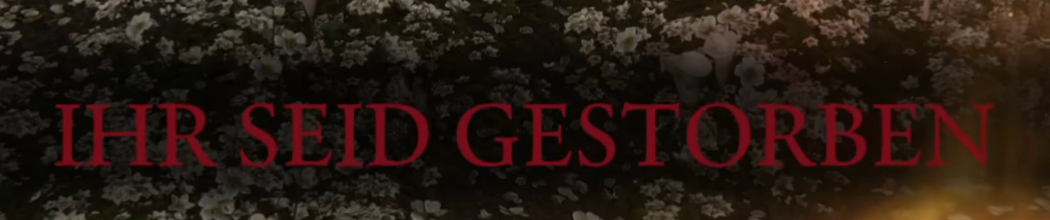
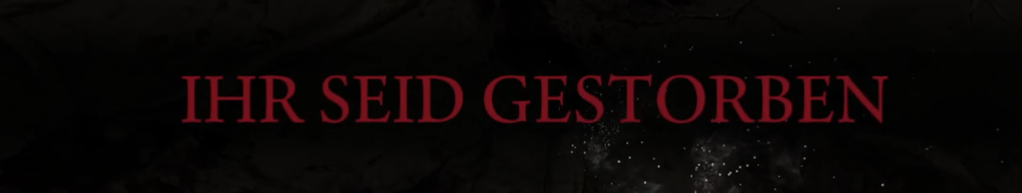
added new logic, tried ocr

diff --git a/eldenring_tod_bot.py b/eldenring_tod_bot.py
@@ -1,68 +1,84 @@
 import socket
 import time
-import cv2
 import numpy as np
 from PIL import ImageGrab
+import pyautogui
+import cv2
+import pytesseract
 from credentials import TWITCH_NICK, TWITCH_TOKEN, TWITCH_CHANNEL
 
-DEATH_TEMPLATE_PATH = 'death_template.png'
-template = cv2.imread(DEATH_TEMPLATE_PATH, cv2.IMREAD_GRAYSCALE)
-
-# === Twitch IRC-Verbindung ===
+DEATH_AREA = (850, 1000, 2300, 1300)
 server = 'irc.chat.twitch.tv'
 port = 6667
 
-sock = socket.socket()
-sock.connect((server, port))
-sock.send(f"PASS {TWITCH_TOKEN}\r\n".encode('utf-8'))
-sock.send(f"NICK {TWITCH_NICK}\r\n".encode('utf-8'))
-sock.send(f"JOIN {TWITCH_CHANNEL}\r\n".encode('utf-8'))
-
-print("✅ Erfolgreich mit Twitch-Chat verbunden.")
-
-# === Funktion zum Tod erkennen ===
-def detect_death_screen(threshold=0.85):
-    screenshot = ImageGrab.grab()
-    screenshot = np.array(screenshot)
-    gray = cv2.cvtColor(screenshot, cv2.COLOR_BGR2GRAY)
-    res = cv2.matchTemplate(gray, template, cv2.TM_CCOEFF_NORMED)
-    loc = np.where(res >= threshold)
-    return len(loc[0]) > 0
-
-def send_message(message):
-    sock.send(f"PRIVMSG {TWITCH_CHANNEL} :{message}\r\n".encode('utf-8'))
-
-# === Hauptfunktion mit Debug- und Testausgaben ===
-def main():
-    print("🤖 Bot läuft...")
-
-    # 💬 Test: Sende sofort eine Nachricht in den Chat
-    print("📤 Sende Testnachricht...")
-    send_message("Test: EldenRingBot ist online")
-
-    last_trigger_time = 0
-    cooldown = 10  # Sekunden
-
+def connect_to_twitch():
     while True:
         try:
-            print("🖼 Screenshot analysieren...")
+            sock = socket.socket()
+            sock.connect((server, port))
+            sock.send(f"PASS {TWITCH_TOKEN}\r\n".encode('utf-8'))
+            sock.send(f"NICK {TWITCH_NICK}\r\n".encode('utf-8'))
+            sock.send(f"JOIN {TWITCH_CHANNEL}\r\n".encode('utf-8'))
+            print(" Erfolgreich mit Twitch-Chat verbunden.")
+            return sock
+        except Exception as e:
+            print(f"Fehler bei der Verbindung: {e}, versuche erneut in 5 Sekunden...")
+            time.sleep(5)
 
-            if detect_death_screen():
-                print("‼ Schriftzug erkannt!")
-                if time.time() - last_trigger_time > cooldown:
-                    print("✅ Sende !tod")
-                    send_message("!tod")
-                    last_trigger_time = time.time()
-                else:
-                    print("⏳ Noch im Cooldown...")
-            else:
-                print("❌ Kein Tod erkannt.")
+def send_message(sock, message):
+    try:
+        sock.send(f"PRIVMSG {TWITCH_CHANNEL} :{message}\r\n".encode('utf-8'))
+    except Exception as e:
+        print(f"Fehler beim Senden: {e}")
 
-            time.sleep(1)
+def detect_death_screen():
+    screenshot = pyautogui.screenshot(region=(425, 500, 775, 155))
+    screenshot_np = np.array(screenshot)
+    gray = cv2.cvtColor(screenshot_np, cv2.COLOR_BGR2GRAY)
+    blurred = cv2.GaussianBlur(gray, (3, 3), 0)
+    _, thresh_img = cv2.threshold(blurred, 0, 255, cv2.THRESH_BINARY + cv2.THRESH_OTSU)
+    cv2.imwrite("debug_ocr.png", thresh_img)  # Für Debugging
+    config = '--psm 7 -l deu+eng'
+    text = pytesseract.image_to_string(thresh_img, config=config)
+    print("Erkannter Text:", text.strip())
+    # Death-shit-text
+    trigger_phrases = [
+        "ihr seid gestorben",
+        "IHR SEID GESTORBEN",
+        "seid gestorben",
+        "R SEID GES TORB",
+        "gestorben",
+        "R SEID GESTORB",
+        "IHR SEID"
+    ]
+    for phrase in trigger_phrases:
+        if phrase in text.lower():
+            print("‼ Todesscreen erkannt!")
+            return True
+    return False
 
+def main():
+    sock = connect_to_twitch()
+    print("Bot läuft... (Strg+C zum Beenden)")
+    death_detected = False
+    send_message(sock, "!tod")
+    while True:
+        try:
+            is_dead = detect_death_screen()
+            if is_dead and not death_detected:
+                print("Todesscreen erkannt! Sende !tod")
+                send_message(sock, "!tod")
+                death_detected = True
+            elif not is_dead and death_detected:
+                print("Schriftzug verschwunden, bereit für nächsten Tod")
+                death_detected = False
+            time.sleep(0.4)
         except KeyboardInterrupt:
-            print("⛔ Bot manuell gestoppt.")
+            print("Bot manuell gestoppt.")
             break
+        except Exception as e:
+            print(f"Fehler: {e}")
+            time.sleep(2)
 
 if __name__ == '__main__':
     main()

diff --git a/screenshot_death_area.py b/screenshot_death_area.py
@@ -1,0 +1,28 @@
+#!/usr/bin/env python3
+"""
+screenshot_death_area.py
+
+Nimmt einen Screenshot auf und zeichnet ein Rechteck um die vorgegebene DEATH_AREA.
+"""
+
+import pyautogui
+from PIL import ImageDraw
+
+# Bereich, der markiert werden soll (x1, y1, x2, y2)
+DEATH_AREA = (425, 500, 1150, 650)
+
+
+def main():
+    # Screenshot aufnehmen
+    img = pyautogui.screenshot(region=(425, 500, 725, 150))
+
+
+
+    # Bild speichern
+    output_path = "screenshot_with_death_area.png"
+    img.save(output_path)
+    print(f"Screenshot mit markierter DEATH_AREA gespeichert als: {output_path}")
+
+
+if __name__ == "__main__":
+    main()
